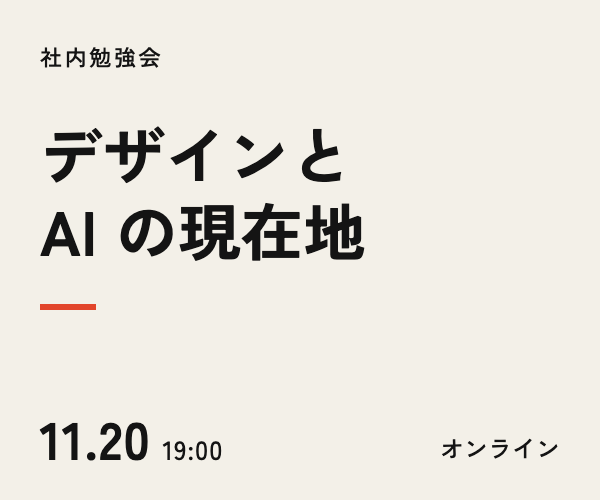
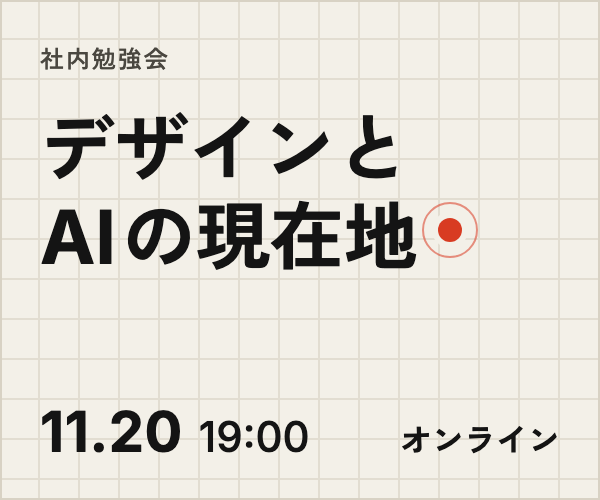
release: 2026-10-27 d9cb915

diff --git a/plugin/benchmark-starter/cases/starter-lp-good/work/lp/index.html b/plugin/benchmark-starter/cases/starter-lp-good/work/lp/index.html
@@ -1,16 +1,49 @@
 <!doctype html>
 <html lang="ja"><head><meta charset="utf-8"><meta name="viewport" content="width=device-width,initial-scale=1"><link rel="preconnect" href="https://fonts.googleapis.com"><link rel="preconnect" href="https://fonts.gstatic.com" crossorigin><link rel="stylesheet" href="https://fonts.googleapis.com/css2?family=Shippori+Mincho+B1:wght@500;700&family=Zen+Kaku+Gothic+New:wght@400;500&display=swap">
-<style>*{box-sizing:border-box;margin:0;padding:0}body{width:1440px;height:900px;background:#efe9e0;color:#2a2521;font-family:"Zen Kaku Gothic New",sans-serif;overflow:hidden}
-header{display:flex;justify-content:space-between;align-items:center;padding:36px 72px}
+<!-- 「使うほどに色が深まる」を、写真の上に置いた5段の木の色見本で見せる。文字の段階は 14/18/24/32/56（比率 1.33） -->
+<style>*{box-sizing:border-box;margin:0;padding:0}
+:root{--paper:#efe9e0;--ink:#2a2521;--sub:#5a5048;--photo:#cbbba5;--m:96px;
+  --w1:#ead9bd;--w2:#d9b98e;--w3:#bf9262;--w4:#9a6a3e;--w5:#6e4626}
+body{background:var(--paper);color:var(--ink);font-family:"Zen Kaku Gothic New",sans-serif;line-break:strict}
+a{color:inherit;text-decoration:none}
+.fv{position:relative;height:100vh;display:grid;grid-template-columns:1fr 640px}
+header{position:absolute;inset:0 0 auto 0;display:flex;justify-content:space-between;align-items:center;padding:40px var(--m);z-index:2}
 .logo{font-family:"Shippori Mincho B1",serif;font-size:24px;font-weight:700;letter-spacing:.06em}
 nav{display:flex;gap:40px;font-size:14px;font-weight:500;letter-spacing:.06em}
-main{display:grid;grid-template-columns:1fr 600px;gap:96px;padding:56px 72px 0 120px;align-items:start}
-h1{font-family:"Shippori Mincho B1",serif;font-weight:500;font-size:64px;line-height:1.38;letter-spacing:.04em;font-feature-settings:"palt";margin-top:64px}
-.lead{margin-top:40px;max-width:22em;word-break:auto-phrase;font-size:16px;line-height:1.95;letter-spacing:.04em}
-.cta{margin-top:56px;display:flex;gap:32px;align-items:center}
-.btn{background:#2a2521;color:#efe9e0;padding:18px 40px;font-size:15px;font-weight:500;letter-spacing:.08em}
-.link{font-size:15px;font-weight:500;letter-spacing:.06em;border-bottom:1px solid #2a2521;padding-bottom:4px}
-.img{height:640px;background:#cdbfae;display:flex;align-items:flex-end;padding:20px;font-size:12px;color:#463c34;letter-spacing:.06em}</style></head>
-<body><header><p class="logo">kinome</p><nav><span>作品</span><span>工房について</span><span>お問い合わせ</span></nav></header>
-<main><div><h1>暮らしに、<br>長く使える<br>木の道具を。</h1><p class="lead">一つひとつ手で削り、使うほどに色が深まる器と家具をつくっています。</p>
-<div class="cta"><span class="btn">作品を見る</span></div></div><div class="img">画像：工房の作業台と削りかけの器</div></main></body></html>
+nav a{padding-bottom:4px;border-bottom:1px solid currentColor}
+.menu{display:none;font-size:14px;font-weight:500;letter-spacing:.06em;padding-bottom:4px;border-bottom:1px solid currentColor}
+.copy{padding:240px 64px 96px var(--m)}
+h1{font-family:"Shippori Mincho B1",serif;font-weight:500;font-size:56px;line-height:1.4;letter-spacing:.02em;font-feature-settings:"palt";word-break:auto-phrase}
+.lead{margin-top:32px;max-width:36em;font-size:18px;line-height:1.8;letter-spacing:.04em;word-break:auto-phrase}
+.btn{display:inline-block;margin-top:56px;background:var(--ink);color:var(--paper);padding:20px 40px;font-size:18px;font-weight:500;letter-spacing:.08em}
+/* 写真の場所（仮）。右端と上下は画面の端まで */
+.photo{position:relative;background:var(--photo);display:flex;flex-direction:column;justify-content:flex-end;padding:40px}
+.photo .cap{position:absolute;top:120px;left:40px;font-size:14px;color:#3f362e;letter-spacing:.04em}
+.aging{background:var(--paper);padding:24px 32px 24px;width:400px}
+.aging p{font-family:"Shippori Mincho B1",serif;font-size:24px;font-weight:500;letter-spacing:.02em;font-feature-settings:"palt"}
+.chips{margin-top:16px;display:grid;grid-template-columns:repeat(5,1fr);height:48px}
+.chips i:nth-child(1){background:var(--w1)}.chips i:nth-child(2){background:var(--w2)}.chips i:nth-child(3){background:var(--w3)}.chips i:nth-child(4){background:var(--w4)}.chips i:nth-child(5){background:var(--w5)}
+.ends{margin-top:8px;display:flex;justify-content:space-between;font-size:14px;color:var(--sub);letter-spacing:.04em}
+@media (max-width:767px){
+  :root{--m:24px}
+  .fv{display:flex;flex-direction:column}
+  header{position:static;padding:20px var(--m)}
+  nav{display:none}
+  .menu{display:inline-block}
+  .copy{padding:32px var(--m) 40px}
+  h1{font-size:32px}
+  .lead{margin-top:24px;font-size:16px;max-width:22em}
+  .btn{margin-top:32px;padding:16px 32px;font-size:16px}
+  .photo{flex:1;min-height:0;padding:16px 24px}
+  .photo .cap{top:16px;left:24px}
+  .aging{width:auto;padding:12px 16px}
+  .aging p{font-size:18px}
+  .chips{margin-top:8px;height:24px}
+}</style></head>
+<body><section class="fv">
+<header><p class="logo">kinome</p><nav><a href="#works">作品</a><a href="#works">工房について</a><a href="#works">お問い合わせ</a></nav><a class="menu" href="#works">メニュー</a></header>
+<div class="copy"><h1>暮らしに、<br>長く使える<br>木の道具を。</h1><p class="lead">一つひとつ手で削り、使うほどに色が深まる器と家具をつくっています。</p>
+<a class="btn" href="#works">作品を見る</a></div>
+<div class="photo" data-provisional="image" data-label="画像：工房の作業台と削りかけの器" role="img" aria-label="仮の画像：工房の作業台と削りかけの器"><p class="cap">仮　画像：工房の作業台と削りかけの器</p>
+<div class="aging"><p>使うほどに、色が深まる。</p><div class="chips" aria-hidden="true"><i></i><i></i><i></i><i></i><i></i></div><div class="ends"><span>使いはじめ</span><span>使い込んだ色</span></div></div></div>
+</section></body></html>

diff --git a/plugin/benchmark-starter/cases/starter-social-good/work/social/index.html b/plugin/benchmark-starter/cases/starter-social-good/work/social/index.html
@@ -1,11 +1,23 @@
 <!doctype html>
-<html lang="ja"><head><meta charset="utf-8"><meta name="viewport" content="width=device-width,initial-scale=1"><link rel="preconnect" href="https://fonts.googleapis.com"><link rel="preconnect" href="https://fonts.gstatic.com" crossorigin><link rel="stylesheet" href="https://fonts.googleapis.com/css2?family=Shippori+Mincho+B1:wght@700&family=Zen+Kaku+Gothic+New:wght@500&display=swap">
-<style>*{box-sizing:border-box;margin:0;padding:0}body{width:1080px;height:1080px;background:#f4efe4;color:#1f2b24;font-family:"Zen Kaku Gothic New",sans-serif;padding:96px;position:relative;overflow:hidden}
-.kicker{font-size:30px;font-weight:500;letter-spacing:.2em}
-h1{margin-top:24px;font-family:"Shippori Mincho B1",serif;font-weight:700;font-size:200px;line-height:1.08;letter-spacing:.02em;font-feature-settings:"palt"}
-.date{position:absolute;left:96px;bottom:150px;font-size:120px;font-weight:500;line-height:1;color:#c2563a;letter-spacing:.02em}
-.date small{font-size:44px;margin-left:16px;color:#1f2b24}
-.place{position:absolute;left:96px;bottom:92px;font-size:30px;font-weight:500;letter-spacing:.08em}
-.frame{position:absolute;inset:0;overflow:hidden}
-.leaf{position:absolute;right:-120px;top:120px;width:420px;height:420px;border-radius:50%;background:#dfe6d6}</style></head>
-<body><div class="frame"><div class="leaf"></div></div><h1 style="position:relative">春の<br>読書会</h1><p class="date">4.12<small>14:00</small></p><p class="place">市立図書館 2F</p></body></html>
+<html lang="ja"><head><meta charset="utf-8"><meta name="viewport" content="width=device-width,initial-scale=1"><link rel="preconnect" href="https://fonts.googleapis.com"><link rel="preconnect" href="https://fonts.gstatic.com" crossorigin><link rel="stylesheet" href="https://fonts.googleapis.com/css2?family=Shippori+Mincho+B1:wght@500;700&display=swap">
+<!-- 読書会なので、題を本の背のように縦に組み、上から垂らした桜色の栞の先に日時を置く。書体は明朝1系統、差し色は栞と日付で1色。文字の段階は 56/78/110/154（比率 1.4） -->
+<style>*{box-sizing:border-box;margin:0;padding:0}
+:root{--paper:#f4efe4;--ink:#1f2b24;--accent:#c25f6a;--line:#d9d1bf}
+body{width:1080px;height:1080px;background:var(--paper);color:var(--ink);font-family:"Shippori Mincho B1",serif;position:relative;overflow:hidden}
+/* 本の背：右に縦組みの題 */
+.spine{position:absolute;top:96px;right:72px;bottom:96px;width:248px;display:flex;justify-content:flex-end}
+h1{writing-mode:vertical-rl;font-weight:700;font-size:154px;line-height:1.3;letter-spacing:.04em;font-feature-settings:"vpal"}
+/* 頁：綴じ目から左へ、縦組みの行を思わせる細い罫を引く。綴じ目・罫・栞は同じ y=712 で止め、日時には重ねない */
+.page{position:absolute;left:96px;top:96px;width:664px;height:616px;background:repeating-linear-gradient(270deg,var(--line) 0 1px,transparent 1px 64px);opacity:.8}
+.gutter{position:absolute;left:759px;top:96px;width:2px;height:616px;background:var(--line)}
+/* 栞：上の縁から垂らし、先を燕尾に切って日時を指す */
+.ribbon{position:absolute;left:96px;top:0;width:56px;height:712px;background:var(--accent);clip-path:polygon(0 0,100% 0,100% 100%,50% calc(100% - 28px),0 100%)}
+.info{position:absolute;left:96px;bottom:96px}
+.date{display:flex;align-items:baseline;gap:24px;line-height:1}
+.date .d{font-size:110px;font-weight:700;color:var(--accent);letter-spacing:0}
+.date .t{font-size:78px;font-weight:500}
+.place{margin-top:32px;font-size:56px;font-weight:500;letter-spacing:.04em;line-height:1.2}
+.place .lat{margin-left:.15em}</style></head>
+<body><div class="page" aria-hidden="true"></div><div class="gutter" aria-hidden="true"></div><div class="ribbon" aria-hidden="true"></div>
+<div class="spine"><h1>春の読書会</h1></div>
+<div class="info"><p class="date"><span class="d">4.12</span><span class="t">14:00</span></p><p class="place">市立図書館<span class="lat">2F</span></p></div></body></html>

diff --git a/plugin/benchmark-starter/cases/starter-banner-good/work/banner/index.html b/plugin/benchmark-starter/cases/starter-banner-good/work/banner/index.html
@@ -1,12 +1,20 @@
 <!doctype html>
-<html lang="ja"><head><meta charset="utf-8"><meta name="viewport" content="width=device-width,initial-scale=1"><link rel="preconnect" href="https://fonts.googleapis.com"><link rel="preconnect" href="https://fonts.gstatic.com" crossorigin><link rel="stylesheet" href="https://fonts.googleapis.com/css2?family=Zen+Kaku+Gothic+New:wght@500;700&display=swap">
-<style>*{box-sizing:border-box;margin:0;padding:0}body{width:300px;height:250px;background:#f3f0e8;color:#141414;font-family:"Zen Kaku Gothic New",sans-serif;padding:20px 20px 18px;display:flex;flex-direction:column}
-.label{font-size:11px;font-weight:500;letter-spacing:.12em}
-h1{margin-top:22px;font-size:31px;font-weight:700;line-height:1.22;font-feature-settings:"palt";letter-spacing:.01em}
-.rule{margin-top:18px;width:28px;height:3px;background:#e2452b}
-.meta{margin-top:auto;display:flex;align-items:flex-end;justify-content:space-between}
-.date{font-size:26px;font-weight:700;letter-spacing:.02em;line-height:1}
-.date small{font-size:13px;font-weight:500;margin-left:6px}
-.place{font-size:12px;font-weight:500}</style></head>
-<body><p class="label">社内勉強会</p><h1>デザインと<br>AI の現在地</h1><div class="rule"></div>
-<div class="meta"><p class="date">11.20<small>19:00</small></p><p class="place">オンライン</p></div></body></html>
+<html lang="ja"><head><meta charset="utf-8"><meta name="viewport" content="width=device-width,initial-scale=1"><link rel="preconnect" href="https://fonts.googleapis.com"><link rel="preconnect" href="https://fonts.gstatic.com" crossorigin><link rel="stylesheet" href="https://fonts.googleapis.com/css2?family=Inter:wght@500;700&family=Zen+Kaku+Gothic+New:wght@500;700&display=swap">
+<!-- 題の「現在地」を、地図の格子と現在地のマーカーで見せる。文字の段階は 12/16/21/28/37（比率 1.33） -->
+<style>*{box-sizing:border-box;margin:0;padding:0}
+:root{--paper:#f3f0e8;--ink:#141414;--grid:#e2ddd1;--pin:#d83b22;--sub:#4a4740}
+body{width:300px;height:250px;background:var(--paper);color:var(--ink);font-family:"Inter","Zen Kaku Gothic New",sans-serif;padding:20px;display:flex;flex-direction:column;position:relative;overflow:hidden;
+  background-image:linear-gradient(var(--grid) 1px,transparent 1px),linear-gradient(90deg,var(--grid) 1px,transparent 1px);background-size:20px 20px;background-position:-1px -1px;box-shadow:inset 0 0 0 1px #d8d2c4}
+.label{font-size:12px;font-weight:500;letter-spacing:.08em;color:var(--sub)}
+h1{margin-top:16px;font-size:37px;font-weight:700;line-height:1.2;font-feature-settings:"palt";letter-spacing:0;word-break:auto-phrase}
+h1 .lat{margin-right:.08em}
+.pin{display:inline-block;position:relative;width:12px;height:12px;margin-left:10px;vertical-align:.32em}
+.pin::before{content:"";position:absolute;inset:0;border-radius:50%;background:var(--pin);box-shadow:0 0 0 3px var(--paper)}
+.pin::after{content:"";position:absolute;inset:-8px;border-radius:50%;border:1px solid var(--pin);opacity:.55}
+.meta{margin-top:auto;display:flex;align-items:baseline;gap:8px}
+.date{font-size:28px;font-weight:700;letter-spacing:.01em;line-height:1}
+.time{font-size:21px;font-weight:500;line-height:1}
+.place{margin-left:auto;font-size:16px;font-weight:700;line-height:1}</style></head>
+<body><p class="label">社内勉強会</p>
+<h1>デザインと<br><span class="lat">AI</span>の現在地<span class="pin" aria-hidden="true"></span></h1>
+<div class="meta"><p class="date">11.20</p><p class="time">19:00</p><p class="place">オンライン</p></div></body></html>

diff --git a/CHANGELOG.md b/CHANGELOG.md
@@ -4,6 +4,12 @@ tanren の main に入った変更です。新しいものが上です。
 
 ## 2026-10-27
 
+- 採点役の検証用の SNS 投稿の良い例で、空いていた面を罫の頁にし、書体と差し色を1つにまとめた
+- 採点役の検証用の良い例（バナー・LP・SNS 投稿）を、案件ならではの判断がある作りに直した
+- 縦組みの見出しを「1文字だけの行」と誤って落とさないようにした（縦組みは列ごとに数える）
+
+## 2026-10-27
+
 - 仮の画像を、色面と線画を貼り合わせた抽象の生成アートにできるようにした。依頼の最初にグレーとどちらにするかを聞く
 - 採点役の検証用の初期ケースに、スライドの良い例と悪い例、見栄えは良いが依頼を満たさないバナーと LP を足した（6件から10件に）
 

diff --git a/plugin/benchmark-starter/cases/starter-lp-good/shots/index.md b/plugin/benchmark-starter/cases/starter-lp-good/shots/index.md
@@ -1,8 +1,9 @@
-# shots shots (2026-10-25T06:32:21.679Z)
+# shots shots (2026-10-27T02:37:40.983Z)
 
 - lp-fv@1440x900.png
+- lp-fv@375x667.png
 
-## 機械チェック（上の6つは1件でもあれば不合格）
+## 機械チェック（上の7つは1件でもあれば不合格）
 ### はみ出し・文字切れ
 - なし
 ### コントラスト不足
@@ -15,10 +16,12 @@
 - なし
 ### 文字組み
 - なし
+### デザインシステムにない色
+- なし
 ### トークンにない値（参考）
 - なし
-### 仮の画像・仮のコピー（納品時に一覧にする）
-- なし
+### 仮の画像・仮のコピー・要コピー（納品時に一覧にする）
+- lp-fv: 仮の画像：画像：工房の作業台と削りかけの器
 ### 欠落
 - なし
 ### アクセシビリティ（参考）

diff --git a/plugin/benchmark-starter/cases/starter-banner-good/shots/index.md b/plugin/benchmark-starter/cases/starter-banner-good/shots/index.md
@@ -1,8 +1,8 @@
-# shots shots (2026-10-25T06:32:19.363Z)
+# shots shots (2026-10-27T02:37:13.940Z)
 
 - banner-300x250@300x250.png
 
-## 機械チェック（上の6つは1件でもあれば不合格）
+## 機械チェック（上の7つは1件でもあれば不合格）
 ### はみ出し・文字切れ
 - なし
 ### コントラスト不足
@@ -15,9 +15,11 @@
 - なし
 ### 文字組み
 - なし
+### デザインシステムにない色
+- なし
 ### トークンにない値（参考）
 - なし
-### 仮の画像・仮のコピー（納品時に一覧にする）
+### 仮の画像・仮のコピー・要コピー（納品時に一覧にする）
 - なし
 ### 欠落
 - なし

diff --git a/plugin/benchmark-starter/cases/starter-social-good/shots/index.md b/plugin/benchmark-starter/cases/starter-social-good/shots/index.md
@@ -1,8 +1,8 @@
-# shots shots (2026-10-25T06:32:23.995Z)
+# shots shots (2026-10-27T03:07:53.147Z)
 
 - social-1080@1080x1080.png
 
-## 機械チェック（上の6つは1件でもあれば不合格）
+## 機械チェック（上の7つは1件でもあれば不合格）
 ### はみ出し・文字切れ
 - なし
 ### コントラスト不足
@@ -15,9 +15,11 @@
 - なし
 ### 文字組み
 - なし
+### デザインシステムにない色
+- なし
 ### トークンにない値（参考）
 - なし
-### 仮の画像・仮のコピー（納品時に一覧にする）
+### 仮の画像・仮のコピー・要コピー（納品時に一覧にする）
 - なし
 ### 欠落
 - なし
